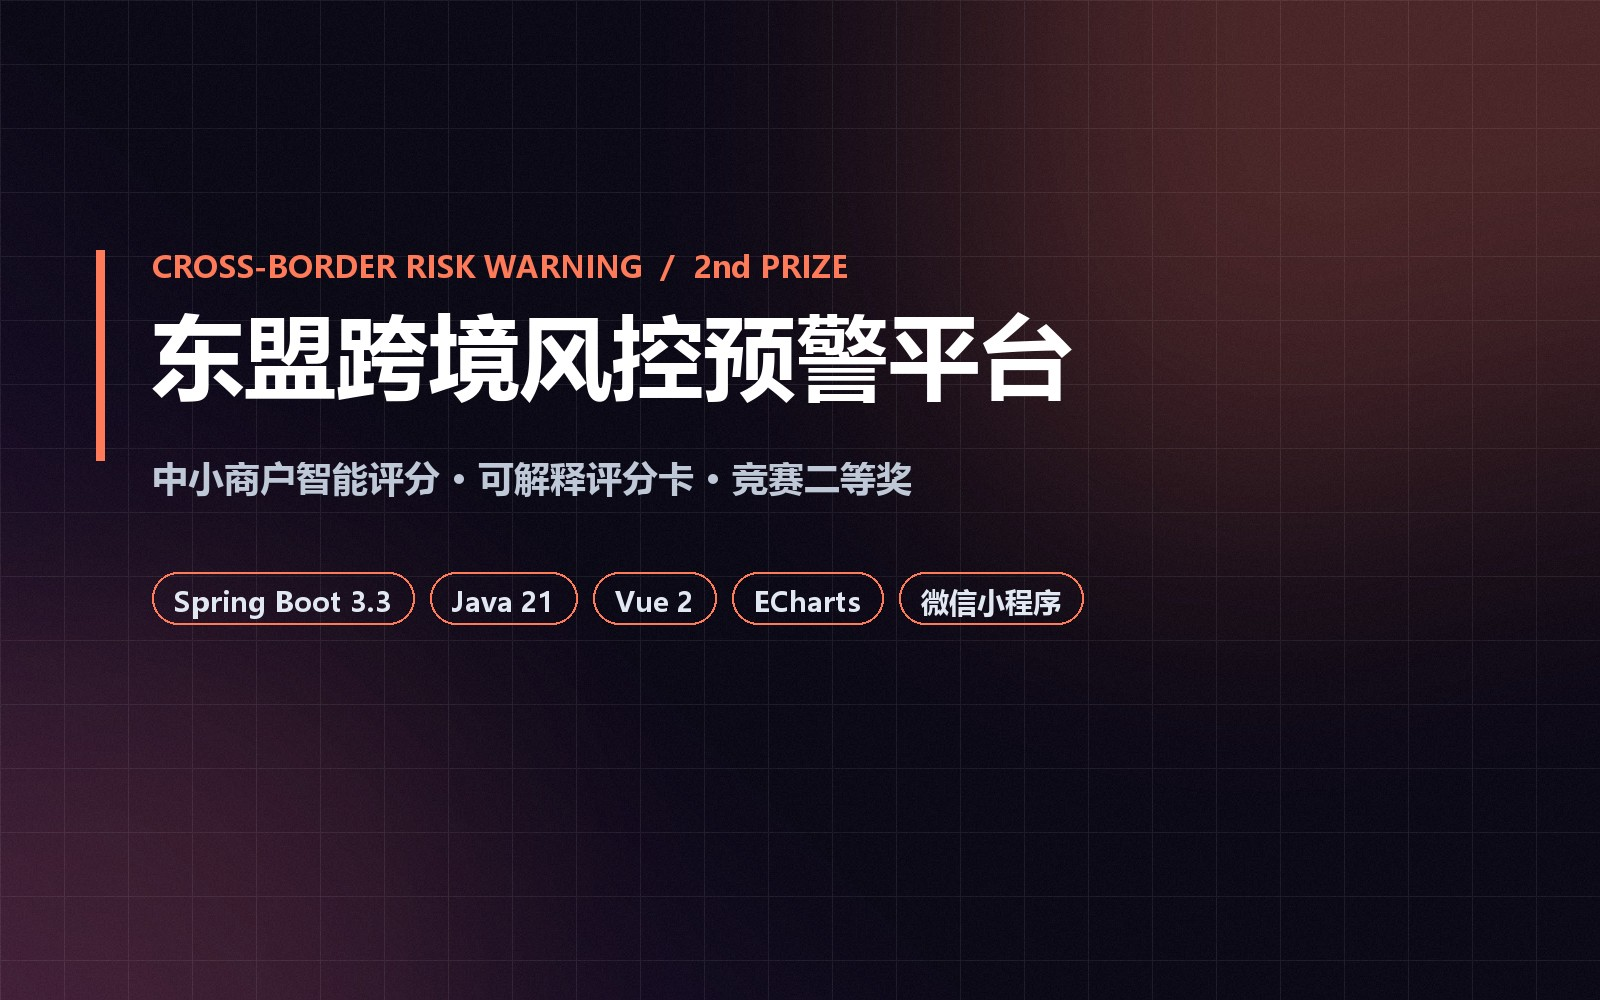
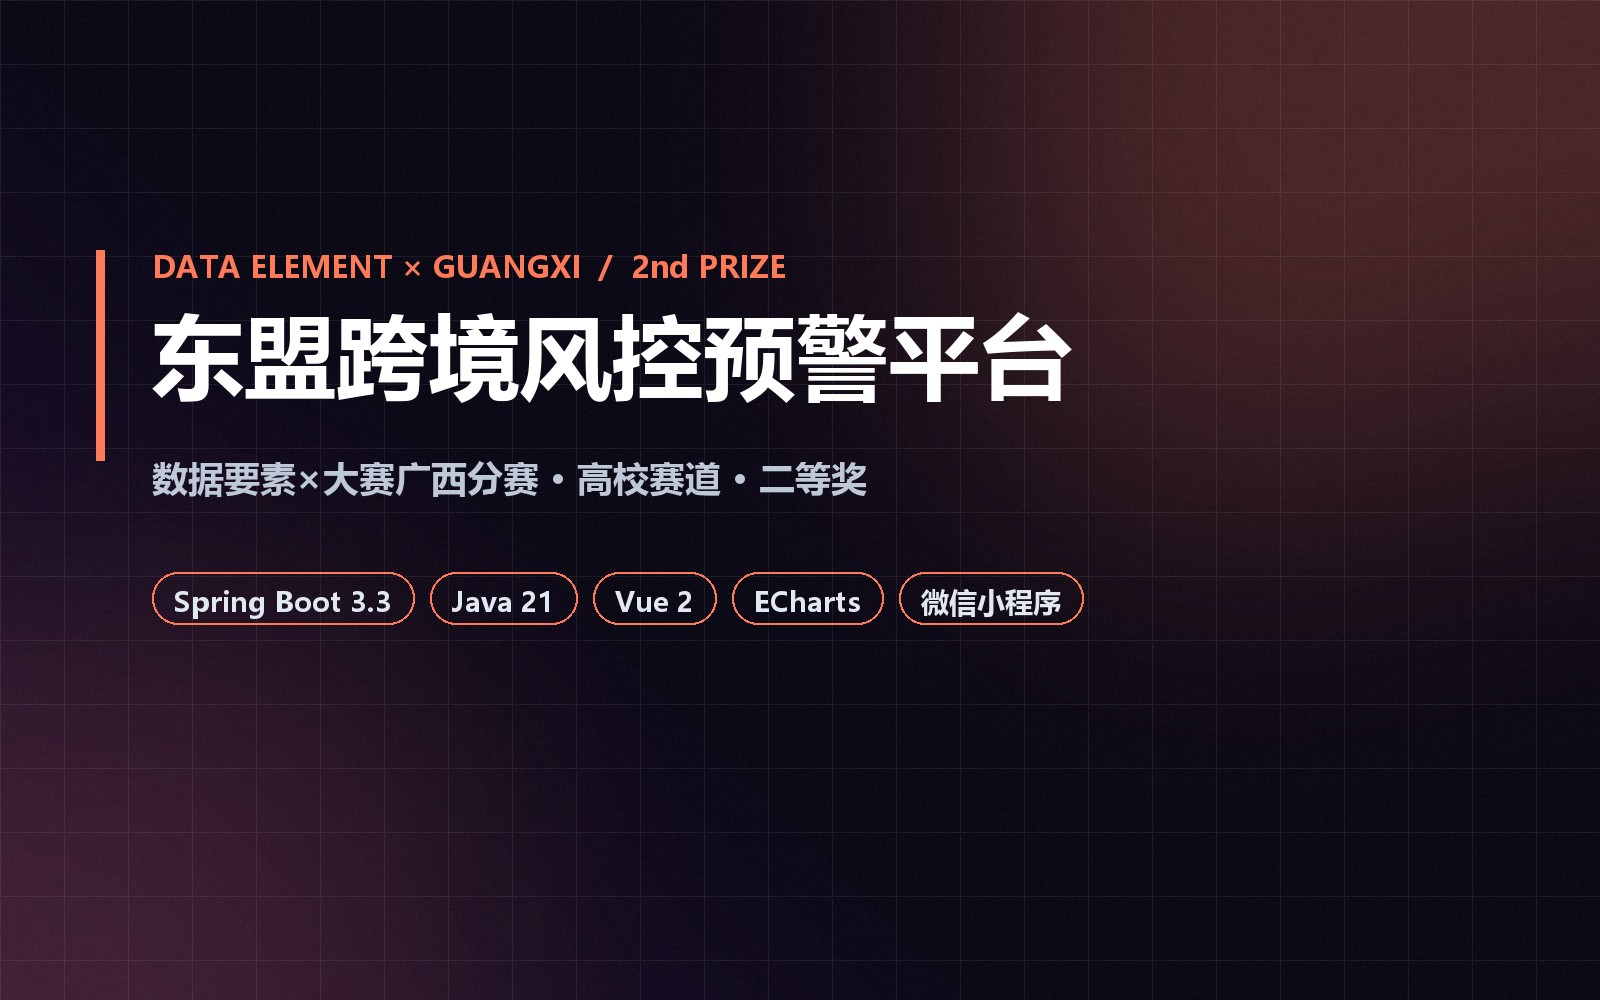
docs(projects): 芋道改为实习跟随团队开发；东盟风控标注数据要素×大赛广西分赛全称+二等奖

Changed region(s): [[0.0938, 0.465, 0.5938, 0.496], [0.0938, 0.248, 0.5312, 0.279]]

diff --git a/src/data/projects.tsx b/src/data/projects.tsx
@@ -499,39 +499,45 @@ const projects: Project[] = [
       return (
         <div>
           <TypographyP className="font-mono text-2xl text-center">
-            在芋道脚手架上长出的不只是一个模块 —— 是一整套设计师 / 家装业务。
+            实习期间跟着团队，第一次把 Spring Boot 的分层和规范用在真实业务上。
           </TypographyP>
           <TypographyP className="font-mono">
-            基于芋道（yudao，2025.10）商城版做的二次开发，目标是做一个连接业主与设计师的
-            家装服务平台。官方模块（system / infra / 会员 / 交易）一行没动，
-            全部业务都落在自研的两个模块里。
+            这是我在实习期间参与开发的一个家装服务平台，连接业主与设计师，
+            基于芋道（yudao，2025.10）商城版二次开发。平台级的官方模块
+            （system / infra / 会员 / 交易）由团队维护，我跟随导师和同事，
+            在其上做业务模块，走完了从需求、编码、联调到上线的全过程。
           </TypographyP>
 
-          <TypographyH3 className="my-4 mt-8">自研了什么</TypographyH3>
+          <TypographyH3 className="my-4 mt-8">项目做了什么</TypographyH3>
           <p className="font-mono mb-2">
             <strong>设计师模块（designer）。</strong>
             设计师档案、入驻审核、认证等级与变更记录、服务项、排班与节假日、预约下单与预约历史、
             作品集 / 图片 / 空间、全景图、技能评分、评价、收藏、会话沟通、消息通知、平台统计 ——
-            二十多个业务子域，按芋道的 controller / service / dal / convert 分层铺开。
+            二十多个业务子域，按芋道的 controller / service / dal / convert 分层组织。
           </p>
           <p className="font-mono mb-2">
             <strong>家装案例模块（designerCase）。</strong>
             案例主档、案例空间、家装案例，把作品和可复用的设计方案沉淀成可浏览的内容。
           </p>
+          <p className="font-mono mb-2">
+            这两个模块是团队协作的成果，我在其中参与了业务接口、Service 逻辑和数据访问层
+            的开发，跟着 code review 一点点对齐团队的写法。
+          </p>
 
-          <TypographyH3 className="my-4 mt-8">技术上的取舍</TypographyH3>
+          <TypographyH3 className="my-4 mt-8">在这个项目里学到的</TypographyH3>
           <p className="font-mono mb-2">
             业务实体一律继承 <code>TenantBaseDO</code>，走框架的多租户隔离和数据权限；
             预约、排班、状态流转用枚举加 service 校验兜住，避免时间冲突和状态回跳；
-            全景图、作品集图片走资源服务统一管理。
+            全景图、作品集图片走资源服务统一管理。这些都是在真实项目里才真正理解的。
           </p>
           <p className="font-mono mb-2">
-            坚持「不改上游」：根 pom 加 module、server pom 引依赖就能接入，
-            官方框架升级可以直接 pull，不跟业务代码打架。
+            团队坚持「不改上游」：根 pom 加 module、server pom 引依赖就能接入，
+            官方框架升级可以直接 pull，不跟业务代码打架 —— 这也让我明白了协作项目里
+            守住边界比「顺手改一下」更重要。
           </p>
           <p className="font-mono mb-2">
-            两个自研模块共约 <strong>300 个 Java 类</strong>、二十多张 MyBatis Mapper，
-            已在生产环境以 Spring Boot 48080 端口跑起来。
+            两个业务模块共约 <strong>300 个 Java 类</strong>、二十多张 MyBatis Mapper，
+            项目已在生产环境以 Spring Boot 48080 端口运行。
           </p>
         </div>
       );
@@ -539,7 +545,7 @@ const projects: Project[] = [
   },
   {
     id: "asean-risk",
-    category: "竞赛 · 二等奖 · 风控预警",
+    category: "数据要素×大赛 · 二等奖",
     title: "东盟跨境中小商户智能风控预警平台",
     src: "/assets/projects-screenshots/asean-risk/cover.jpg",
     screenshots: ["cover.jpg"],
@@ -560,13 +566,15 @@ const projects: Project[] = [
     get content() {
       return (
         <div>
-          <TypographyP className="font-mono text-2xl text-center">
-            竞赛二等奖 —— 一套面向东盟跨境中小商户的可解释风控与事前预警原型。
+          <TypographyP className="font-mono text-xl text-center">
+            2026 年「数据要素 ×」大赛广西分赛（高校赛道）暨第六届广西公共数据开放创新应用大赛
+            · 二等奖
           </TypographyP>
           <TypographyP className="font-mono">
-            面向中国—东盟跨境中小商户，把海关吞吐、口岸、贸易统计、政策目录等公开数据
-            整合起来，输出企业合规风险的辅助判断。参赛中负责整体设计与全栈实现，
-            最终拿到竞赛<strong>二等奖</strong>。
+            一套面向中国—东盟跨境中小商户的可解释风控与事前预警原型，把海关吞吐、口岸、
+            贸易统计、政策目录等公开数据整合起来，输出企业合规风险的辅助判断。
+            作品参加 2026 年「数据要素 ×」大赛广西分赛（高校赛道）暨第六届广西公共数据
+            开放创新应用大赛，最终获<strong>二等奖</strong>，由我负责整体设计与全栈实现。
           </TypographyP>
           <ProjectsLinks live={this.live} repo={this.github} />
 

diff --git a/scripts/gen_covers.py b/scripts/gen_covers.py
@@ -145,7 +145,7 @@ build("yudao-designer", "#0a1016", "#143036", "#071214", "#4fd6c2",
       ["Spring Boot 2.x", "Java", "MyBatis", "多租户", "Vue"])
 
 build("asean-risk", "#0d0a18", "#2c1640", "#12081f", "#ff7a59",
-      "CROSS-BORDER RISK WARNING  /  2nd PRIZE",
+      "DATA ELEMENT × GUANGXI  /  2nd PRIZE",
       "东盟跨境风控预警平台",
-      "中小商户智能评分 · 可解释评分卡 · 竞赛二等奖",
+      "数据要素×大赛广西分赛 · 高校赛道 · 二等奖",
       ["Spring Boot 3.3", "Java 21", "Vue 2", "ECharts", "微信小程序"])
